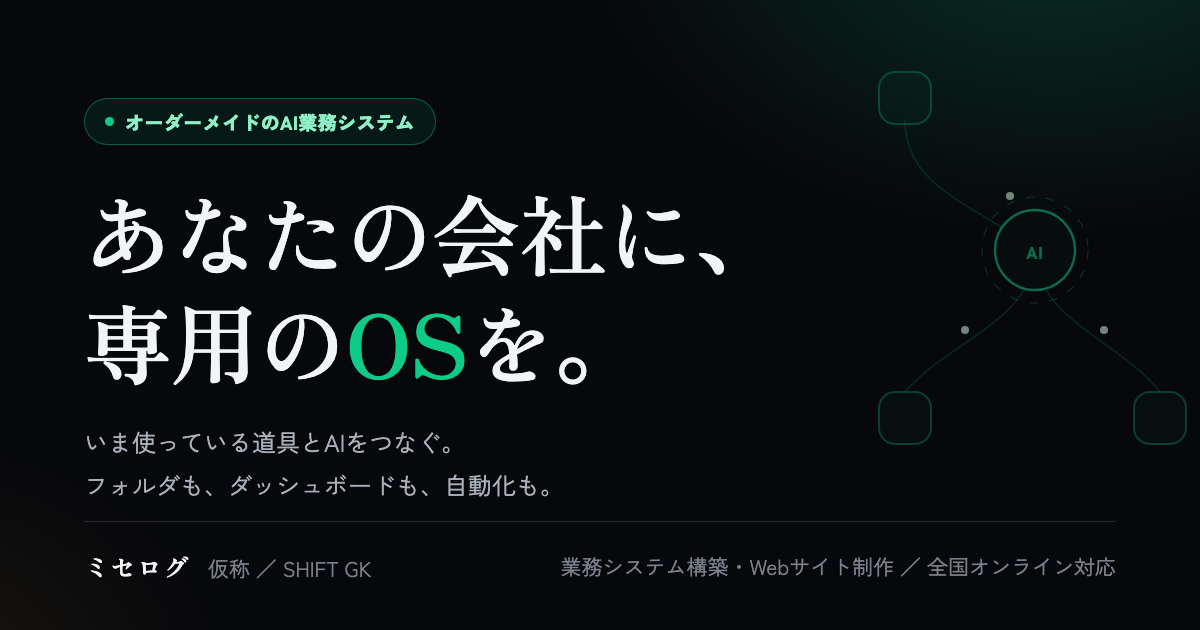
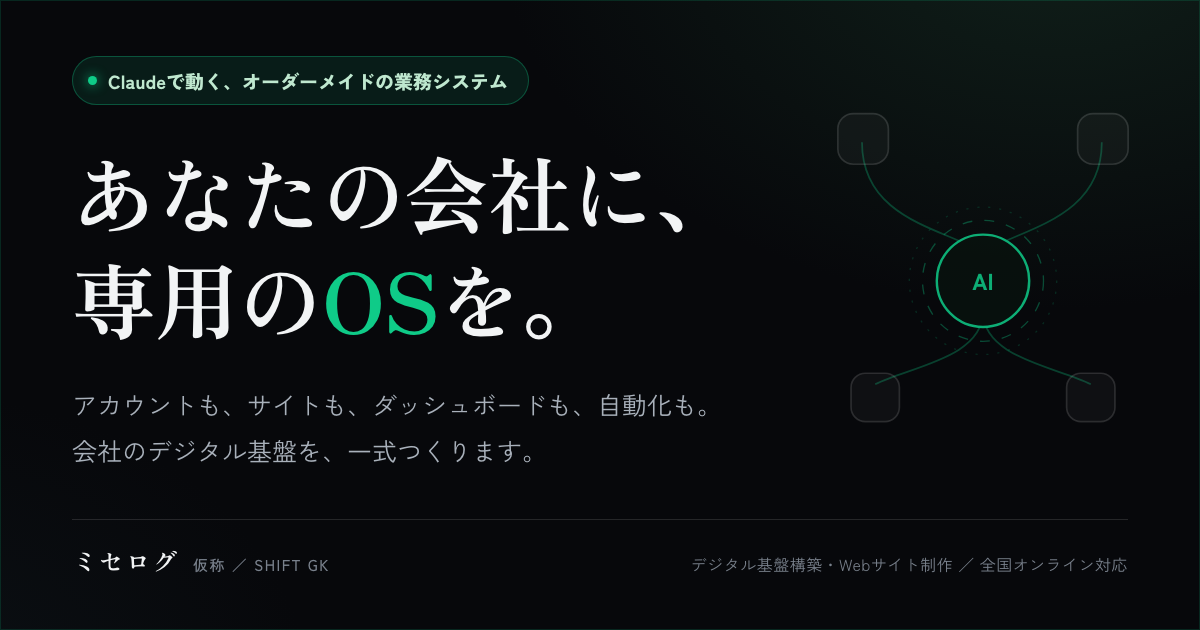
Widen to full digital infrastructure, name Claude, add real pricing tiers
Guto described the actual service in full: building a company's digital
infrastructure end to end, from a business that owns nothing yet through
to one that just wants its existing setup rebuilt properly.

Scope, said plainly
The old "one running example" block is now what actually gets built:
- The accounts. Google Workspace, company email for as many people as
  needed, the domain, and the developer accounts the system needs to run
  — Cloudflare, LINE Developers and the rest — opened and configured here.
- Where the data lives. Folder structure and spreadsheets shaped to the
  work, with the monthly numbers landing in them by themselves.
- Something to look at. Dashboard, website, and an app where the work
  needs one, all drawn in the client's brand.
- Claude, set up properly, connected to all of the above.
- It stays theirs: own accounts, backups, nothing typed by hand.

Claude is named outright now — badge, hero, the AI node in the diagram,
and the scope list. Vague "AI" is what every competitor says.

Pricing
Five build packages and three monthly tiers, replacing the four plans
that were priced for the old automation offer:
  Full build (from zero)   ¥800,000〜¥1,500,000
  Rebuild & connect        ¥350,000〜¥700,000
  Website only             ¥250,000〜¥600,000
  Dashboard only           ¥200,000〜¥450,000
  AI setup only            ¥150,000〜¥350,000
  Light / Standard / Pro   ¥30,000 / ¥60,000 / ¥120,000 a month
[…]

diff --git a/index.html b/index.html
@@ -4,12 +4,12 @@
 <meta charset="utf-8">
 <meta name="viewport" content="width=device-width, initial-scale=1">
 <title>ミセログ（仮称）｜あなたの会社に、専用のOSを。</title>
-<meta name="description" content="いま使っている道具とAIをつなぎ、フォルダ・ダッシュボード・自動化まで一式構築。ブランドに合わせてつくり、毎月の運用まで持ちます。Webサイト制作も。東京・SHIFT GK。">
+<meta name="description" content="会社のデジタル基盤を一式構築。アカウント開設・ドメイン・Webサイト・フォルダ・スプレッドシート・ダッシュボード・自動化、そしてClaudeの設置まで。ゼロからでも、いまの仕組みの作り直しでも。東京・SHIFT GK。">
 <meta name="theme-color" content="#07080b">
 <meta property="og:type" content="website">
 <meta property="og:locale" content="ja_JP">
 <meta property="og:title" content="ミセログ（仮称）｜あなたの会社に、専用のOSを。">
-<meta property="og:description" content="いま使っている道具とAIをつなぎ、フォルダも、ダッシュボードも、自動化も、ブランドに合わせて一式つくります。運用まで込み。">
+<meta property="og:description" content="アカウントもドメインもサイトもフォルダもダッシュボードも自動化も、そしてClaudeも。会社のデジタル基盤を一式つくります。">
 <meta property="og:url" content="https://karassada.github.io/OSBS/">
 <meta property="og:site_name" content="ミセログ（仮称）／ SHIFT GK">
 <meta property="og:image" content="https://karassada.github.io/OSBS/og.png">
@@ -24,8 +24,8 @@
   "@context": "https://schema.org",
   "@type": "Service",
   "name": "ミセログ（仮称）",
-  "serviceType": "業務システム構築（AI連携・自動化・ダッシュボード・Webサイト制作）",
-  "description": "いま使っている道具とAIをつなぎ、フォルダ構造、ダッシュボード、自動化までを一式構築します。Google Workspaceの設置やWebサイト制作にも対応し、毎月の運用・保守まで含みます。",
+  "serviceType": "デジタル基盤構築（Claude導入・自動化・ダッシュボード・Webサイト制作・アカウント設計）",
+  "description": "会社のデジタル基盤を一式構築します。Google Workspaceやドメインなど必要なアカウントの開設、フォルダ構造とスプレッドシート、ダッシュボード、Webサイト、自動化、そしてClaudeの設置と接続まで。構築後は月額プランで修正・改善に対応します。",
   "url": "https://karassada.github.io/OSBS/",
   "provider": {
     "@type": "Organization",
@@ -665,6 +665,23 @@ section.drench > * { position:relative; z-index:1; }
   border-radius:16px; padding:clamp(16px,2.2vh,22px) clamp(16px,2vw,24px); }
 .note b { color:var(--jade); font-weight:900; }
 
+/* ---------- monthly tiers ---------- */
+.tiers-h { margin-top:clamp(34px,5vh,54px); font-size:clamp(19px,2vw,27px); font-weight:900;
+  letter-spacing:-.015em; color:var(--jade); }
+.tiers { display:grid; grid-template-columns:repeat(auto-fit,minmax(215px,1fr));
+  gap:clamp(11px,1.6vw,16px); margin-top:clamp(18px,2.6vh,26px); }
+.tiers > div { border-radius:18px; padding:clamp(18px,2.6vh,24px) clamp(16px,2vw,22px);
+  background:rgba(255,255,255,.028); border:1px solid var(--hair);
+  transition:background .4s var(--eo), border-color .4s var(--eo); }
+.tiers > div:hover { background:rgba(15,203,136,.05); border-color:rgba(15,203,136,.3); }
+.tiers .t { font-size:clamp(12px,1.05vw,13.5px); font-weight:900; letter-spacing:.06em;
+  color:var(--jade); }
+.tiers .p { margin-top:8px; font-size:clamp(21px,2.1vw,28px); font-weight:900;
+  letter-spacing:-.025em; color:var(--ink); }
+.tiers .p span { font-size:.5em; font-weight:700; color:var(--faint); letter-spacing:0;
+  margin-left:.4em; }
+.tiers .d { margin-top:10px; font-size:clamp(12.5px,1.1vw,14px); color:var(--sub); line-height:1.8; }
+
 /* ---------- contact ---------- */
 .contact { margin-top:clamp(30px,4.5vh,48px); display:flex; flex-wrap:wrap; gap:12px 40px;
   padding-top:clamp(24px,3.4vh,34px); border-top:1px solid rgba(15,203,136,.24); }
@@ -809,14 +826,14 @@ footer { padding:clamp(30px,5vh,52px) clamp(20px,7vw,88px); border-top:1px solid
 <!-- 1 ── HERO ─────────────────────────────────────────────── -->
 <section class="full" id="hero">
   <div class="wrap">
-    <div class="badge rv"><span class="dot"></span><span data-en="Custom AI operating systems, built to order">オーダーメイドのAI業務システム</span></div>
+    <div class="badge rv"><span class="dot"></span><span data-en="Custom business systems, built on Claude">Claudeで動く、オーダーメイドの業務システム</span></div>
     <h1 class="disp h-hero">
       <span class="mask"><span data-en="Your business,">あなたの会社に、</span></span>
       <span class="mask m2"><span data-en="on its own &lt;em&gt;OS.&lt;/em&gt;">専用の<em>OS</em>を。</span></span>
     </h1>
     <p class="lede hero-sub rv d3"
-       data-en="We connect the tools you already use to an AI, then build the folders, the dashboards and the automations around them, all in your brand. After that, changes and fixes are handled every month.">
-      いま使っているツールとAIをつなぎ、フォルダも、ダッシュボードも、自動化も、
+       data-en="We connect the tools you already use to Claude, then build the folders, the dashboards and the automations around them, all in your brand. After that, changes and fixes are handled every month.">
+      いま使っているツールとClaudeをつなぎ、フォルダも、ダッシュボードも、自動化も、
       あなたのブランドに合わせて一式つくります。その後も、毎月の変更や修正に対応します。
     </p>
     <div class="btns rv d4">
@@ -1000,7 +1017,7 @@ footer { padding:clamp(30px,5vh,52px) clamp(20px,7vw,88px); border-top:1px solid
       </svg>
 
       <div class="cap-chip" data-cap="1" style="top:1.6%"><em>1</em><span data-en="It comes in">入ってくる</span></div>
-      <div class="cap-chip" data-cap="2" style="top:42.6%"><em>2</em><span data-en="The AI reads and decides">AIが読んで、判断する</span></div>
+      <div class="cap-chip" data-cap="2" style="top:42.6%"><em>2</em><span data-en="Claude reads and decides">Claudeが読んで、判断する</span></div>
       <div class="cap-chip" data-cap="3" style="top:53.8%"><em>3</em><span data-en="It gets organised">整理される</span></div>
       <div class="cap-chip" data-cap="4" style="top:74.6%"><em>4</em><span data-en="It comes back">返ってくる</span></div>
     </div>
@@ -1074,68 +1091,92 @@ footer { padding:clamp(30px,5vh,52px) clamp(20px,7vw,88px); border-top:1px solid
     </div>
 
     <div>
-      <h2 class="disp h-big rv" data-en="One that is&lt;br&gt;already running.">いま動いている、<br>ひとつの例。</h2>
+      <h2 class="disp h-big rv" data-en="We build the&lt;br&gt;whole set.">一式、こちらで<br>つくります。</h2>
       <p class="lede rv d2" style="margin-top:clamp(16px,2.4vh,26px)"
-         data-en="In one business, staff send their usual report in the app they already use. The AI reads it, writes it into the books, and about a minute later the owner’s screen is current. Depending on the business it might be LINE, or email — we connect to whichever tool you prefer.">
-        ある事業では、いつも使っているアプリで、いつも通りの報告を送ります。
-        AIがそれを読み、帳簿に書き、約1分後にはオーナーの画面が最新になっています。
-        事業によってLINEだったり、Eメールだったり。お好みのツールとおつなぎできます。
+         data-en="Accounts, domain, site, folders, sheets, dashboard, automations and the AI itself. If a piece is missing, we open it and set it up. You end up with a business that runs on its own system instead of on somebody’s memory.">
+        アカウントも、ドメインも、サイトも、フォルダも、シートも、ダッシュボードも、自動化も、AIも。
+        足りないものは、こちらで開設して整えます。誰かの記憶ではなく、
+        仕組みで回る会社になります。
       </p>
       <dl class="rows" style="max-width:none">
-        <div class="row rv d3"><dt data-en="About 1 minute">送信から約1分</dt>
-          <dd data-en="From sending to the entry being finished, read back and reconciled to the yen.">送ってから記帳が終わるまで。書いた行は読み戻し、1円単位で照合します。</dd></div>
-        <div class="row rv d4"><dt data-en="Nothing typed by hand">手入力はゼロ</dt>
-          <dd data-en="Nobody retypes anything, so there is nothing to get wrong. Anything that looks off is held and queried, never guessed.">誰も打ち直さないので、間違えようがありません。おかしな数字は推測せず、保留して確認します。</dd></div>
-        <div class="row rv d5"><dt data-en="The data stays yours">データは自分のもの</dt>
-          <dd data-en="Everything lives in your own Google account, with backups. If we ever part ways, it all stays with you.">保存先はご自身のGoogleアカウント。控えも残ります。契約が終わっても、すべて手元に残ります。</dd></div>
+        <div class="row rv d3"><dt data-en="The accounts">必要なアカウント</dt>
+          <dd data-en="Google Workspace, company email for as many people as you need, the domain, and the developer accounts the system needs to run — Cloudflare, LINE Developers and the rest. Opened and configured by us.">Google Workspace、人数分の会社メール、ドメイン。さらにCloudflareやLINE Developersなど、システムが動くために必要なものまで、こちらで開設して設定します。</dd></div>
+        <div class="row rv d4"><dt data-en="Where the data lives">データの置き場所</dt>
+          <dd data-en="A folder structure that makes sense, and spreadsheets shaped to how you actually work. The numbers that arrive each month land in them by themselves, and stay as company data.">迷わないフォルダ構造と、実際の仕事に合わせたスプレッドシート。毎月入ってくる数字はひとりでに収まり、会社のデータとして残ります。</dd></div>
+        <div class="row rv d5"><dt data-en="Something to look at">見えるかたち</dt>
+          <dd data-en="A dashboard that answers “how are we doing” at a glance, a website, and an app if the work needs one. All drawn in your brand, not a template with your logo dropped on it.">ひと目で状況が分かるダッシュボード、Webサイト、必要ならアプリまで。すべてブランドに合わせて描きます。ロゴを載せ替えただけのテンプレートではありません。</dd></div>
+        <div class="row rv d6"><dt data-en="Claude, set up properly">AIはClaudeで</dt>
+          <dd data-en="We build on Claude and connect it to everything above, with the plugins and integrations it needs. It knows your business, not a generic one, and it keeps working without you prompting it.">Claudeを中心に構築し、上のすべてに接続します。必要なプラグインや連携もこちらで用意。一般論ではなく、あなたの会社を分かった状態で動きます。</dd></div>
+        <div class="row rv d6"><dt data-en="It stays yours">データは会社のもの</dt>
+          <dd data-en="Everything sits in your own accounts, with backups. Nothing is typed by hand, so nothing gets mistyped — and if we ever part ways, all of it stays with you.">保存先はすべて自社のアカウント。控えも残ります。手入力がないので打ち間違いも起きません。契約が終わっても、すべて手元に残ります。</dd></div>
       </dl>
     </div>
   </div>
 </section>
 
-<!-- 4 ── パッケージ ───────────────────────────────────────── -->
+<!-- 4 ── 料金プラン ───────────────────────────────────────── -->
 <section id="packages">
   <div class="wrap">
     <h2 class="disp h-big rv" data-en="Pricing.">料金プラン。</h2>
     <p class="lede rv d1" style="margin-top:clamp(16px,2.4vh,26px)"
-       data-en="The plans differ mainly in where you start. With nothing in place yet, take the full setup; with tools already running, take the OS build. A website can be added to any of them, or taken on its own. Everything is made to your brand, and changes are handled monthly.">
-      違いは「どこから始めるか」です。ツールが何もなければ「ゼロから開通」、
-      すでに使っているものがあれば「OS構築」から。サイトは単体でも、どのプランにも足せます。
-      すべてブランドに合わせてつくり、その後の変更にも対応します。
+       data-en="The difference is where you start. With nothing in place, take the full build. Already running and want it done properly, take the rebuild. Or take a single piece. Every build can carry a monthly plan for the changes that follow.">
+      違いは「どこから始めるか」です。何もない状態からなら<b>フルビルド</b>、
+      すでに動いていて作り直したいなら<b>導入・改善</b>、
+      ひとつだけ必要なら<b>単品</b>。どの構築にも、あとから続く変更のために月額プランを付けられます。
     </p>
 
     <div class="panel rv-s d2">
       <table class="pt">
-        <thead><tr><th scope="col" data-en="Package">パッケージ</th><th scope="col" data-en="Setup">導入費</th><th scope="col" data-en="Monthly">月額</th><th scope="col" data-en="What's included">含まれるもの</th></tr></thead>
+        <thead><tr><th scope="col" data-en="Package">プラン</th><th scope="col" data-en="Build (guide)">構築費（目安）</th><th scope="col" data-en="What it covers">内容</th></tr></thead>
         <tbody>
-          <tr><td class="plan" data-en="Full setup">ゼロから開通</td>
-              <td class="n tnum" data-l="導入費" data-dl="Setup">¥400,000〜¥500,000</td>
-              <td class="n" data-l="月額" data-dl="Monthly">—</td>
-              <td class="what" data-en="For a business starting with nothing in place: the Google environment, company email, folder structure, sheet templates and backups, all built from scratch.">道具が何もない状態から。Google環境、会社のメール、フォルダ構造、シートの雛形、バックアップまで一式を構築します。</td></tr>
-          <tr class="pick"><td class="plan" data-en="Standard OS&lt;span class='tag'&gt;Most ordered&lt;/span&gt;">OS構築<span class="tag">いちばん多い</span></td>
-              <td class="n tnum" data-l="導入費" data-dl="Setup">¥250,000〜¥350,000</td>
-              <td class="n tnum" data-l="月額" data-dl="Monthly">¥30,000</td>
-              <td class="what" data-en="Your tools connected to the AI, the automations that matter to your business, a dashboard in your brand, and full maintenance every month.">いま使っている道具とAIの接続、あなたの商売に効く自動化、ブランドに合わせたダッシュボード、そして毎月の保守一式。</td></tr>
-          <tr><td class="plan" data-en="With a retainer">顧問プラン</td>
-              <td class="n" data-l="導入費" data-dl="Setup" data-en="Same as OS build">OS構築と同じ</td>
-              <td class="n tnum" data-l="月額" data-dl="Monthly">¥45,000〜¥50,000</td>
-              <td class="what" data-en="Everything in the OS build, plus a monthly working session and a capped allowance for changes and new automations.">OS構築に加えて、月次の打ち合わせと、改修・追加自動化のリクエスト枠（上限つき）。</td></tr>
-          <tr><td class="plan" data-en="Light">ライト</td>
-              <td class="n tnum" data-l="導入費" data-dl="Setup">¥100,000〜¥150,000</td>
-              <td class="n tnum" data-l="月額" data-dl="Monthly">¥10,000〜¥15,000</td>
-              <td class="what" data-en="One automation and its confirmations, nothing more. A small, honest starting point.">自動化ひとつと、その確認だけ。小さく始めたい方に。</td></tr>
-          <tr><td class="plan" data-en="Website">Webサイト</td>
-              <td class="n" data-l="導入費" data-dl="Setup" data-en="Quoted">お見積り</td>
-              <td class="n" data-l="月額" data-dl="Monthly" data-en="Quoted">お見積り</td>
-              <td class="what" data-en="A site built in the same hands and the same brand as the rest. On its own, or folded into any package above.">残りと同じ手で、同じブランドでつくるサイト。単体でも、上のどれかに含める形でも。</td></tr>
+          <tr class="pick"><td class="plan" data-en="Full build&lt;span class='tag'&gt;From zero&lt;/span&gt;">フルビルド<span class="tag">ゼロから</span></td>
+              <td class="n tnum" data-l="構築費" data-dl="Build">¥800,000〜¥1,500,000</td>
+              <td class="what" data-en="A company set up from nothing: accounts and domain, company email, folder structure, spreadsheets, the website, the dashboard, the automations, and Claude connected to all of it.">会社をゼロから立ち上げる一式。アカウントとドメイン、会社メール、フォルダ構造、スプレッドシート、Webサイト、ダッシュボード、自動化、そのすべてに接続したClaudeまで。</td></tr>
+          <tr><td class="plan" data-en="Rebuild &amp; connect">導入・改善</td>
+              <td class="n tnum" data-l="構築費" data-dl="Build">¥350,000〜¥700,000</td>
+              <td class="what" data-en="For a business already running. We look at how the work actually moves, then redesign and reconnect it: consulting, design and implementation on top of the tools you already have.">すでに動いている会社向け。いまの仕事の流れを見たうえで、設計し直してつなぎ直します。コンサルティング・設計・実装まで。</td></tr>
+          <tr><td class="plan" data-en="Website only">Webサイト（単品）</td>
+              <td class="n tnum" data-l="構築費" data-dl="Build">¥250,000〜¥600,000</td>
+              <td class="what" data-en="A site on its own, built in the same hands and the same brand as everything else.">サイトだけ。ほかと同じ手で、同じブランドでつくります。</td></tr>
+          <tr><td class="plan" data-en="Dashboard only">ダッシュボード（単品）</td>
+              <td class="n tnum" data-l="構築費" data-dl="Build">¥200,000〜¥450,000</td>
+              <td class="what" data-en="Your numbers in one screen, fed by whatever you already use.">数字をひとつの画面に。入力元は、いま使っているもので構いません。</td></tr>
+          <tr><td class="plan" data-en="AI setup only">AIセットアップ（単品）</td>
+              <td class="n tnum" data-l="構築費" data-dl="Build">¥150,000〜¥350,000</td>
+              <td class="what" data-en="Claude set up around your business, with the connections and plugins it needs to be useful rather than generic.">あなたの会社に合わせたClaudeの設置。一般論で終わらせないための接続とプラグインまで。</td></tr>
         </tbody>
       </table>
     </div>
-    <p class="note rv d3"
-       data-en="For reference: business software alone tends to run around ¥10,000 a month, and custom development starts near ¥500,000 plus maintenance. &lt;b&gt;What is unusual here is that the person who runs it is included.&lt;/b&gt; Nothing is a template with your name dropped into it.">
-      参考までに：業務ソフトはソフトだけで月額約¥10,000、受託開発なら¥500,000〜に保守が乗るのが一般的です。
-      <b>ここで珍しいのは、「運用する人」まで含まれていることです。</b>
-      名前を入れ替えただけのテンプレートは、ひとつもありません。
+
+    <h3 class="tiers-h rv d3" data-en="Monthly, after it is built">つくったあとの、月額。</h3>
+    <p class="lede rv d3" style="margin-top:10px; font-size:clamp(13.5px,1.15vw,16px)"
+       data-en="A system that nobody tends goes stale. The monthly plan covers the changes: each tier includes a set number of revisions, so a business that keeps tuning simply takes a higher one.">
+      誰も手を入れない仕組みは、古びます。月額はそのための枠です。
+      各プランに毎月の修正・改善の件数が含まれ、よく手を入れる会社ほど上のプランになります。
+    </p>
+    <div class="tiers rv d4">
+      <div>
+        <p class="t" data-en="Light">ライト</p>
+        <p class="p tnum" data-en="&lt;span&gt;¥30,000&lt;/span&gt; / month">¥30,000<span data-en=""> / 月</span></p>
+        <p class="d" data-en="Up to 2 changes a month, plus fixes when something breaks.">月2件までの修正・改善。不具合の対応は別枠で対応します。</p>
+      </div>
+      <div>
+        <p class="t" data-en="Standard">スタンダード</p>
+        <p class="p tnum" data-en="&lt;span&gt;¥60,000&lt;/span&gt; / month">¥60,000<span data-en=""> / 月</span></p>
+        <p class="d" data-en="Up to 5 changes a month and a monthly working session to decide what they should be.">月5件までの修正・改善と、何を直すかを決める月次の打ち合わせ。</p>
+      </div>
+      <div>
+        <p class="t" data-en="Pro">プロ</p>
+        <p class="p tnum" data-en="&lt;span&gt;¥120,000&lt;/span&gt; / month">¥120,000<span data-en=""> / 月</span></p>
+        <p class="d" data-en="No cap on changes and priority turnaround, for businesses that keep reshaping how they work.">件数の上限なし、優先対応。仕組みを頻繁に変えていく会社向け。</p>
+      </div>
+    </div>
+
+    <p class="note rv d5"
+       data-en="&lt;b&gt;These figures are a guide, not a quote.&lt;/b&gt; What a build actually costs depends on how many tools have to be connected and how much already exists. You get a fixed number after the call, before anything starts.">
+      <b>上の金額は目安で、見積もりではありません。</b>
+      実際の費用は、つなぐ道具の数と、すでにあるものの量で変わります。
+      お話を伺ったうえで、着手前に金額を確定してお出しします。
     </p>
   </div>
 </section>
